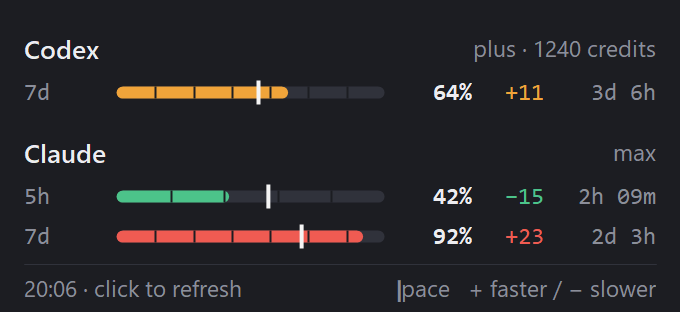
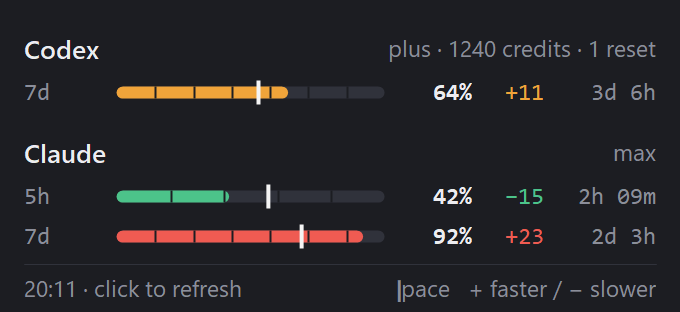
Live Codex limits via codex app-server, Codex sign-in
- Read limits, credits and free resets from the official app-server; session logs as fallback
- Sign-in action per provider (codex login / claude auth login)

Changed region(s): [[0.5559, 0.1154, 0.9882, 0.2019], [0.0618, 0.8942, 0.1235, 0.9519]]

diff --git a/CodexSource.cs b/CodexSource.cs
@@ -1,17 +1,113 @@
+using System.Diagnostics;
 using System.Globalization;
+using System.Text;
 using System.Text.Json;
 using System.Text.Json.Nodes;
 
 namespace UsageTray;
 
 /// <summary>
-/// Reads the latest rate-limit snapshot Codex writes into its session logs
-/// (~/.codex/sessions/YYYY/MM/DD/*.jsonl, "token_count" events). Fully local, no auth.
+/// Codex limits. Live via the official `codex app-server` JSON-RPC interface, which uses
+/// Codex's own login; falls back to the last snapshot Codex wrote into its session logs
+/// (~/.codex/sessions/YYYY/MM/DD/*.jsonl) when the CLI isn't available.
 /// </summary>
 static class CodexSource
 {
-    static readonly string SessionsDir = Path.Combine(
-        Environment.GetFolderPath(Environment.SpecialFolder.UserProfile), ".codex", "sessions");
+    static readonly string CodexHome = Path.Combine(
+        Environment.GetFolderPath(Environment.SpecialFolder.UserProfile), ".codex");
+    static readonly string SessionsDir = Path.Combine(CodexHome, "sessions");
+
+    /// <returns>null when Codex isn't installed.</returns>
+    public static async Task<ProviderStatus?> ReadAsync()
+    {
+        var exe = FindCli();
+        if (exe is null && !Directory.Exists(CodexHome)) return null;
+        try
+        {
+            if (exe is not null && await ReadLiveAsync(exe) is { } live) return live;
+        }
+        catch (Exception)
+        {
+            // Fall through to the session logs.
+        }
+        return ReadLogs();
+    }
+
+    // --- Live: codex app-server -------------------------------------------------------------
+
+    static async Task<ProviderStatus?> ReadLiveAsync(string exe)
+    {
+        var psi = exe.EndsWith(".exe", StringComparison.OrdinalIgnoreCase)
+            ? new ProcessStartInfo(exe, "app-server")
+            : new ProcessStartInfo("cmd.exe", $"/d /c \"\"{exe}\" app-server\"");
+        psi.UseShellExecute = false;
+        psi.CreateNoWindow = true;
+        psi.RedirectStandardInput = psi.RedirectStandardOutput = psi.RedirectStandardError = true;
+        psi.StandardOutputEncoding = Encoding.UTF8;
+
+        using var proc = Process.Start(psi);
+        if (proc is null) return null;
+        _ = proc.StandardError.ReadToEndAsync(); // drain so the server never blocks on stderr
+
+        try
+        {
+            var stdin = proc.StandardInput;
+            await stdin.WriteLineAsync("""{"jsonrpc":"2.0","id":1,"method":"initialize","params":{"clientInfo":{"name":"usagetray","version":"0.1.0"}}}""");
+            await stdin.WriteLineAsync("""{"jsonrpc":"2.0","method":"initialized"}""");
+            await stdin.WriteLineAsync("""{"jsonrpc":"2.0","id":2,"method":"account/read"}""");
+            await stdin.WriteLineAsync("""{"jsonrpc":"2.0","id":3,"method":"account/rateLimits/read"}""");
+            await stdin.FlushAsync();
+
+            using var timeout = new CancellationTokenSource(TimeSpan.FromSeconds(20));
+            JsonNode? account = null, limits = null;
+            while (account is null || limits is null)
+            {
+                var line = await proc.StandardOutput.ReadLineAsync(timeout.Token);
+                if (line is null) return null;
+                JsonNode? msg;
+                try { msg = JsonNode.Parse(line); }
+                catch (JsonException) { continue; }
+                if (msg?["id"] is not JsonValue idValue || !idValue.TryGetValue<int>(out var id)) continue;
+                if (id == 2) account = msg;
+                else if (id == 3) limits = msg;
+            }
+
+            if (account!["result"] is JsonObject acc && acc["account"] is null && acc["requiresOpenaiAuth"]?.GetValue<bool>() == true)
+                return new("Codex", [], Error: L.T("not signed in · click to sign in", "niet ingelogd · klik om in te loggen"), NeedsLogin: true);
+
+            if (limits!["result"] is not JsonObject result || result["rateLimits"] is not JsonObject main)
+                return limits["error"]?["message"]?.ToString() is { } err ? new("Codex", [], Error: err) : null;
+
+            var resets = result["rateLimitResetCredits"]?["availableCount"]?.GetValue<int>() ?? 0;
+            return Build(main, asOf: null, result["rateLimitsByLimitId"] as JsonObject, resets);
+        }
+        finally
+        {
+            try
+            {
+                proc.StandardInput.Close(); // stdio server exits on EOF
+                if (!proc.WaitForExit(2000)) proc.Kill(entireProcessTree: true);
+            }
+            catch (Exception)
+            {
+                // Already gone.
+            }
+        }
+    }
+
+    static string? FindCli()
+    {
+        var dirs = (Environment.GetEnvironmentVariable("PATH") ?? "").Split(Path.PathSeparator, StringSplitOptions.RemoveEmptyEntries);
+        foreach (var name in new[] { "codex.exe", "codex.cmd" })
+            foreach (var dir in dirs)
+            {
+                var path = Path.Combine(dir.Trim('"'), name);
+                if (File.Exists(path)) return path;
+            }
+        return null;
+    }
+
+    // --- Fallback: session logs -------------------------------------------------------------
 
     // Many sessions (subagents, automations) never log rate limits; remember per file so we
     // don't re-scan unchanged files on every refresh.
@@ -19,16 +115,14 @@ static class CodexSource
 
     sealed record Snapshot(JsonObject Limits, DateTimeOffset At);
 
-    /// <returns>null when Codex isn't installed.</returns>
-    public static ProviderStatus? Read()
+    static ProviderStatus ReadLogs()
     {
-        if (!Directory.Exists(Path.GetDirectoryName(SessionsDir))) return null;
         try
         {
             foreach (var file in RecentSessionFiles())
             {
                 if (LatestSnapshot(file) is { } hit)
-                    return Build(hit);
+                    return Build(hit.Limits, hit.At, others: null, resets: 0);
             }
             return new("Codex", [], Error: L.T("no limit data in recent sessions", "geen limietdata in recente sessies"));
         }
@@ -94,43 +188,61 @@ static class CodexSource
         return null;
     }
 
-    static ProviderStatus Build(Snapshot s)
+    // --- Shared: both sources carry the same shape, snake_case in logs, camelCase live ------
+
+    static JsonNode? Get(JsonNode? n, string snake, string camel) => n?[snake] ?? n?[camel];
+
+    static ProviderStatus Build(JsonObject main, DateTimeOffset? asOf, JsonObject? others, int resets)
     {
-        var windows = new[] { s.Limits["primary"], s.Limits["secondary"] }
-            .Select(n => ToWindow(n, s.At))
-            .OfType<UsageWindow>()
-            .OrderBy(w => w.Length)
-            .ToList();
+        var at = asOf ?? DateTimeOffset.Now;
+        var windows = Windows(main, at, label: null).OrderBy(w => w.Length).ToList();
+
+        // Secondary pools (e.g. a model-specific reserve) only once they're in use.
+        var mainId = Get(main, "limit_id", "limitId")?.ToString();
+        foreach (var (id, other) in others ?? new JsonObject())
+        {
+            if (id == mainId || other is not JsonObject o) continue;
+            var label = Get(o, "limit_name", "limitName")?.ToString() ?? id;
+            windows.AddRange(Windows(o, at, label).Where(w => w.UsedPct > 0));
+        }
 
         string? credits = null;
-        if (s.Limits["credits"] is JsonObject c && c["has_credits"]?.GetValue<bool>() == true)
+        if (Get(main, "credits", "credits") is JsonObject c && Get(c, "has_credits", "hasCredits")?.GetValue<bool>() == true)
         {
-            credits = c["unlimited"]?.GetValue<bool>() == true ? "credits ∞"
-                : double.TryParse(c["balance"]?.ToString(), NumberStyles.Float, CultureInfo.InvariantCulture, out var bal)
+            credits = Get(c, "unlimited", "unlimited")?.GetValue<bool>() == true ? "credits ∞"
+                : double.TryParse(Get(c, "balance", "balance")?.ToString(), NumberStyles.Float, CultureInfo.InvariantCulture, out var bal)
                     ? $"{bal:0} credits" : null;
         }
 
-        // Codex only logs limits while you use it, so flag old snapshots.
-        var age = DateTimeOffset.Now - s.At;
-        var stale = age > TimeSpan.FromMinutes(15) ? L.T($"as of {Fmt.AsOf(s.At)}", $"stand {Fmt.AsOf(s.At)}") : null;
+        var resetNote = resets switch { 0 => null, 1 => "1 reset", _ => $"{resets} resets" };
 
-        return new("Codex", windows, s.Limits["plan_type"]?.ToString(), Fmt.Join(credits, stale));
+        // Log snapshots are only written while Codex is in use, so flag old ones.
+        var stale = asOf is { } t && DateTimeOffset.Now - t > TimeSpan.FromMinutes(15)
+            ? L.T($"as of {Fmt.AsOf(t)}", $"stand {Fmt.AsOf(t)}")
+            : null;
+
+        return new("Codex", windows, Get(main, "plan_type", "planType")?.ToString(), Fmt.Join(credits, resetNote, stale));
     }
 
-    static UsageWindow? ToWindow(JsonNode? n, DateTimeOffset at)
+    static IEnumerable<UsageWindow> Windows(JsonObject limits, DateTimeOffset at, string? label) =>
+        new[] { limits["primary"], limits["secondary"] }
+            .Select(n => ToWindow(n, at, label))
+            .OfType<UsageWindow>();
+
+    static UsageWindow? ToWindow(JsonNode? n, DateTimeOffset at, string? label)
     {
         if (n is null) return null;
-        var used = n["used_percent"]?.GetValue<double>() ?? 0;
-        var length = TimeSpan.FromMinutes(n["window_minutes"]?.GetValue<double>() ?? 0);
+        var used = Get(n, "used_percent", "usedPercent")?.GetValue<double>() ?? 0;
+        var length = TimeSpan.FromMinutes(Get(n, "window_minutes", "windowDurationMins")?.GetValue<double>() ?? 0);
         DateTimeOffset? reset =
-            n["resets_at"] is JsonValue ra ? DateTimeOffset.FromUnixTimeSeconds((long)ra.GetValue<double>())
+            Get(n, "resets_at", "resetsAt") is JsonValue ra ? DateTimeOffset.FromUnixTimeSeconds((long)ra.GetValue<double>())
             : n["resets_in_seconds"] is JsonValue ri ? at.AddSeconds(ri.GetValue<double>())
             : null;
 
         // Window rolled over since the snapshot was written.
         if (reset <= DateTimeOffset.Now) (used, reset) = (0, null);
 
-        var label = length.TotalDays >= 1 ? $"{length.TotalDays:0}d" : $"{length.TotalHours:0}h";
+        label ??= length.TotalDays >= 1 ? $"{length.TotalDays:0}d" : $"{length.TotalHours:0}h";
         return new(label, used, length, reset);
     }
 }

diff --git a/TrayApp.cs b/TrayApp.cs
@@ -28,7 +28,8 @@ sealed class TrayApp : ApplicationContext
             Items =
             {
                 new ToolStripMenuItem(L.T("Refresh", "Vernieuwen"), null, (_, _) => _ = RefreshAsync()),
-                new ToolStripMenuItem(L.T("Sign in to Claude…", "Inloggen bij Claude…"), null, (_, _) => _ = ClaudeLoginAsync()),
+                new ToolStripMenuItem(L.T("Sign in to Codex…", "Inloggen bij Codex…"), null, (_, _) => _ = LoginAsync("Codex")),
+                new ToolStripMenuItem(L.T("Sign in to Claude…", "Inloggen bij Claude…"), null, (_, _) => _ = LoginAsync("Claude")),
                 autostart,
                 new ToolStripSeparator(),
                 new ToolStripMenuItem(L.T("Quit", "Afsluiten"), null, (_, _) => ExitThread()),
@@ -40,7 +41,7 @@ sealed class TrayApp : ApplicationContext
         _tray.Visible = true;
 
         _popup.RefreshRequested += () => _ = RefreshAsync();
-        _popup.LoginRequested += () => _ = ClaudeLoginAsync();
+        _popup.LoginRequested += provider => _ = LoginAsync(provider);
         _timer.Tick += (_, _) => _ = RefreshAsync();
         _timer.Start();
         _ = RefreshAsync();
@@ -63,7 +64,7 @@ sealed class TrayApp : ApplicationContext
         _busy = true;
         try
         {
-            var codex = Task.Run(CodexSource.Read);
+            var codex = Task.Run(CodexSource.ReadAsync);
             var claude = Task.Run(ClaudeSource.ReadAsync);
             _data = new[] { await codex, await claude }.OfType<ProviderStatus>().ToList();
             _updated = DateTimeOffset.Now;
@@ -76,12 +77,13 @@ sealed class TrayApp : ApplicationContext
         }
     }
 
-    /// <summary>Runs the official Claude Code login in a console window, then refreshes.</summary>
-    async Task ClaudeLoginAsync()
+    /// <summary>Runs the provider's official CLI login in a console window, then refreshes.</summary>
+    async Task LoginAsync(string provider)
     {
+        var command = provider == "Codex" ? "codex login" : "claude auth login";
         try
         {
-            using var login = Process.Start(new ProcessStartInfo("cmd.exe", "/c title Claude sign-in & claude auth login || pause")
+            using var login = Process.Start(new ProcessStartInfo("cmd.exe", $"/c title {provider} sign-in & {command} || pause")
             {
                 UseShellExecute = true,
             });

diff --git a/PopupForm.cs b/PopupForm.cs
@@ -15,11 +15,12 @@ sealed class PopupForm : Form
 
     IReadOnlyList<ProviderStatus> _data = [];
     DateTimeOffset? _updated;
-    Rectangle _footer, _login;
+    Rectangle _footer;
+    readonly List<(Rectangle Bounds, string Provider)> _logins = [];
     readonly System.Windows.Forms.Timer _tick = new() { Interval = 30_000 };
 
     public event Action? RefreshRequested;
-    public event Action? LoginRequested;
+    public event Action<string>? LoginRequested;
     public DateTime LastHidden { get; private set; }
 
     public PopupForm()
@@ -104,16 +105,18 @@ sealed class PopupForm : Form
 
     protected override void OnMouseMove(MouseEventArgs e)
     {
-        Cursor = _login.Contains(e.Location) || _footer.Contains(e.Location) ? Cursors.Hand : Cursors.Default;
+        Cursor = LoginAt(e.Location) is not null || _footer.Contains(e.Location) ? Cursors.Hand : Cursors.Default;
         base.OnMouseMove(e);
     }
 
     protected override void OnMouseClick(MouseEventArgs e)
     {
-        if (_login.Contains(e.Location)) { Hide(); LoginRequested?.Invoke(); }
+        if (LoginAt(e.Location) is { } provider) { Hide(); LoginRequested?.Invoke(provider); }
         else if (_footer.Contains(e.Location)) RefreshRequested?.Invoke();
         base.OnMouseClick(e);
     }
+
+    string? LoginAt(Point p) => _logins.FirstOrDefault(l => l.Bounds.Contains(p)).Provider;
 
     protected override void OnDpiChanged(DpiChangedEventArgs e)
     {
@@ -143,7 +146,7 @@ sealed class PopupForm : Form
         using var monoBold = new Font("Consolas", Px(12), FontStyle.Bold, GraphicsUnit.Pixel);
 
         int left = Px(Pad), right = Width - Px(Pad), y = Px(Pad);
-        _login = Rectangle.Empty;
+        _logins.Clear();
 
         if (_data.Count == 0)
         {
@@ -164,7 +167,7 @@ sealed class PopupForm : Form
             {
                 var metaBounds = Rectangle.FromLTRB(left + nameW, y, right, y + Px(HeadH));
                 Label(g, meta, small, p.Error is null ? Theme.Muted : Theme.Hot, metaBounds, right: true);
-                if (p.NeedsLogin) _login = metaBounds;
+                if (p.NeedsLogin) _logins.Add((metaBounds, p.Name));
             }
             y += Px(HeadH);
 

diff --git a/Program.cs b/Program.cs
@@ -10,7 +10,7 @@ static class Program
             // Dev aids: render the flyout with live data, or regenerate README images + app icon from demo data.
             case ["--snapshot", var path]:
                 ApplicationConfiguration.Initialize();
-                var data = new[] { CodexSource.Read(), ClaudeSource.ReadAsync().GetAwaiter().GetResult() };
+                var data = new[] { CodexSource.ReadAsync().GetAwaiter().GetResult(), ClaudeSource.ReadAsync().GetAwaiter().GetResult() };
                 using (var popup = new PopupForm())
                     popup.RenderTo(data.OfType<ProviderStatus>().ToList(), path);
                 return;

diff --git a/DocAssets.cs b/DocAssets.cs
@@ -25,7 +25,7 @@ static class DocAssets
         var now = DateTimeOffset.Now;
         return
         [
-            new("Codex", [new("7d", 64, TimeSpan.FromDays(7), now.AddHours(79))], "plus", "1240 credits"),
+            new("Codex", [new("7d", 64, TimeSpan.FromDays(7), now.AddHours(79))], "plus", "1240 credits · 1 reset"),
             new("Claude",
             [
                 new("5h", 42, TimeSpan.FromHours(5), now.AddMinutes(130)),

diff --git a/README.md b/README.md
@@ -22,8 +22,8 @@
 A tiny native Windows tray app. One glance at the icon tells you if you're burning through a limit; one click shows every window with a pace marker, so you know whether to slow down — or that you've got room to spare.
 
 - **Pace, not just percentage.** A white tick marks where you'd be with perfectly even usage. Past the tick means you're going too fast.
-- **Codex + Claude in one place.** Weekly and 5-hour windows, model-specific Claude limits, Codex credits.
-- **Zero setup for Codex.** Reads the logs Codex already writes. No keys, no login.
+- **Codex + Claude in one place.** Weekly and 5-hour windows, model-specific limits, Codex credits and free resets.
+- **No extra logins.** Uses the sign-ins of the official Codex and Claude Code CLIs. No API keys.
 - **Lightweight.** Native WinForms, no dependencies, no telemetry. Refreshes every 2 minutes.
 
 ## Install
@@ -36,7 +36,7 @@ Then:
 
 1. **Keep the icon visible** — drag it from the `^` overflow onto the taskbar (or *Taskbar settings → Other system tray icons → UsageTray*).
 2. **Start with Windows** — right-click the icon and tick it.
-3. **Claude** — if you see *sign-in expired*, click it (or right-click → *Sign in to Claude…*). This runs the official `claude auth login`.
+3. **Signed out?** Click the red message in the flyout (or right-click → *Sign in to Codex…* / *Sign in to Claude…*). This runs the official `codex login` or `claude auth login`.
 
 ## Reading it
 
@@ -65,7 +65,7 @@ The **tray icon** shows the percentage and color of whichever window is most at 
 | Action | |
 |---|---|
 | Click the icon | Open / close the flyout |
-| Right-click | Refresh · Sign in to Claude · Start with Windows · Quit |
+| Right-click | Refresh · Sign in to Codex / Claude · Start with Windows · Quit |
 | `F5` / `R`, or click the footer | Refresh now |
 | `Esc`, or click elsewhere | Close |
 
@@ -75,16 +75,17 @@ The UI is in English, or Dutch when Windows is set to Dutch. Force a language wi
 
 | | Source | Notes |
 |---|---|---|
-| **Codex** | Latest `token_count` event in `~/.codex/sessions/**/*.jsonl` | Local and read-only. Codex only logs limits while you use it, so older snapshots are labeled *as of 14:50*. If the window has reset since, it shows 0 %. |
+| **Codex** | The official `codex app-server` (`account/rateLimits/read`), run locally | Live, using Codex's own login. Also shows credits and available free resets. If the CLI isn't on your `PATH`, it falls back to the last snapshot in `~/.codex/sessions` (labeled *as of 14:50*). |
 | **Claude** | `api.anthropic.com/api/oauth/usage`, using the Claude Code CLI login in `~/.claude/.credentials.json` | Same data as `/usage` in Claude Code. Expired access tokens are refreshed and written back atomically, so the CLI keeps working. |
 
 A provider that isn't installed is simply hidden.
 
 ### Privacy & security
 
-- **Reads** your Codex session logs and the Claude Code credentials file.
+- **Runs** `codex app-server` locally for a second on each refresh; Codex handles its own auth and network.
+- **Reads** the Claude Code credentials file, and your Codex session logs as a fallback.
 - **Writes** only refreshed Claude tokens back to that same credentials file, plus the optional autostart entry (`HKCU\…\Run`).
-- **Talks to** `platform.claude.com` (token refresh) and `api.anthropic.com` (usage). Nothing else. No telemetry, no analytics.
+- **Talks to** `platform.claude.com` (token refresh) and `api.anthropic.com` (usage) itself. Nothing else. No telemetry, no analytics.
 
 ## Build from source
 
@@ -108,9 +109,9 @@ Tag a commit `v*` to build and publish a release automatically.
 
 | File | Role |
 |---|---|
-| `TrayApp.cs` | Tray icon, menu, refresh timer, Claude sign-in, autostart |
+| `TrayApp.cs` | Tray icon, menu, refresh timer, sign-in, autostart |
 | `PopupForm.cs` | The flyout — custom-drawn, DPI-aware |
-| `CodexSource.cs` | Codex session-log reader |
+| `CodexSource.cs` | Codex via `codex app-server`, with session-log fallback |
 | `ClaudeSource.cs` | OAuth token refresh + usage endpoint |
 | `Models.cs` | Usage windows, pace math, formatting |
 | `IconRenderer.cs` | Tray icon and logo |
